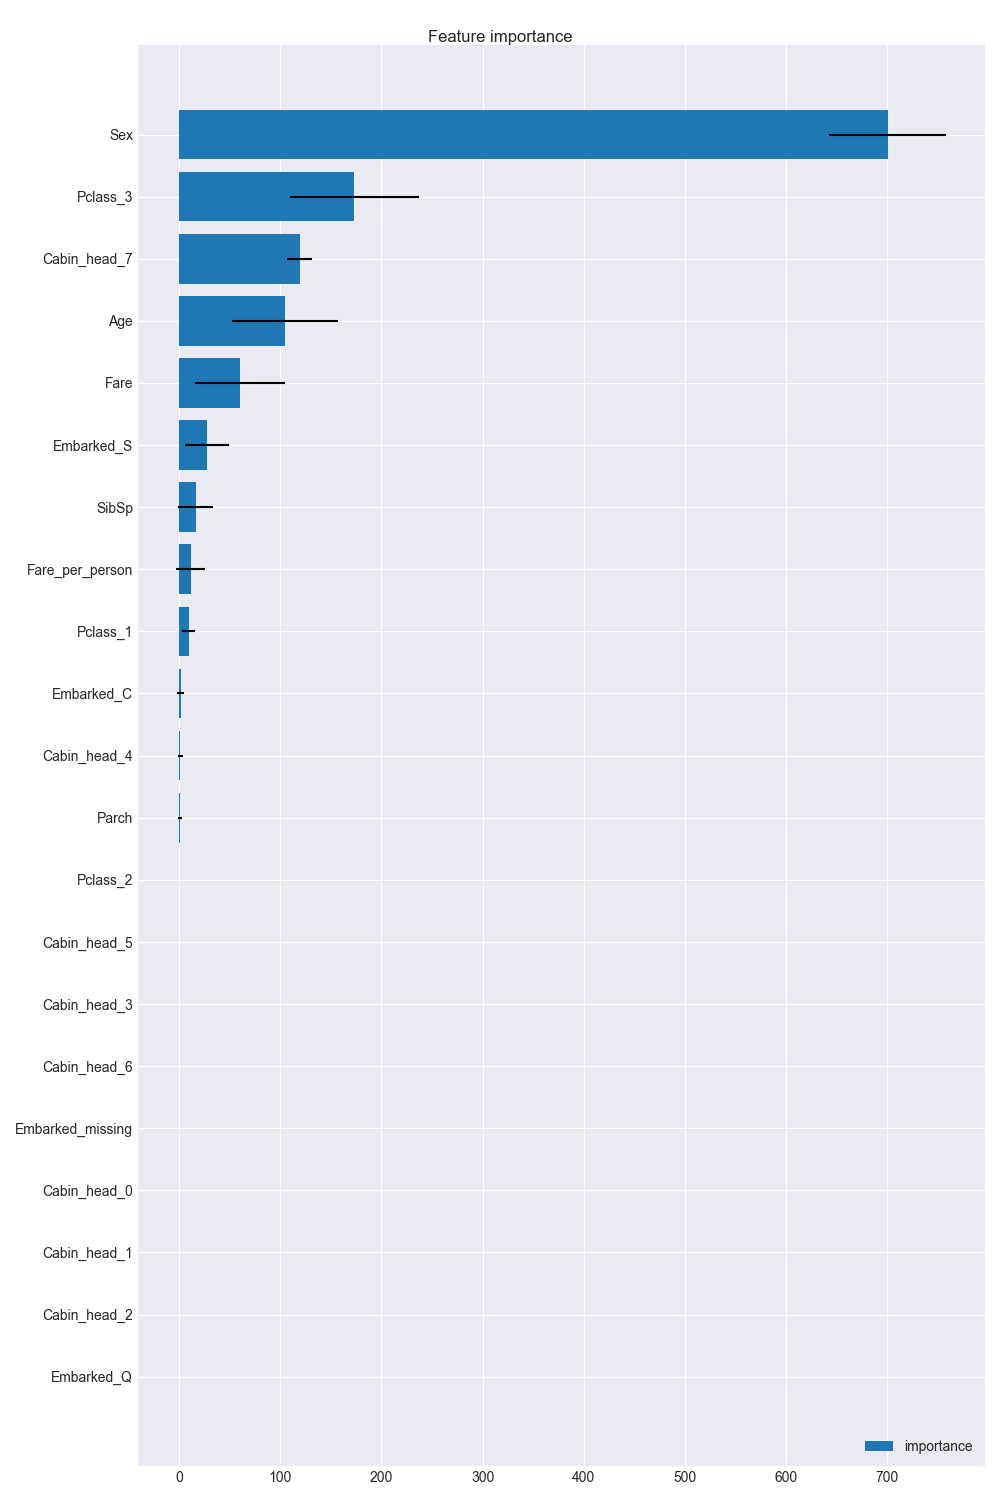
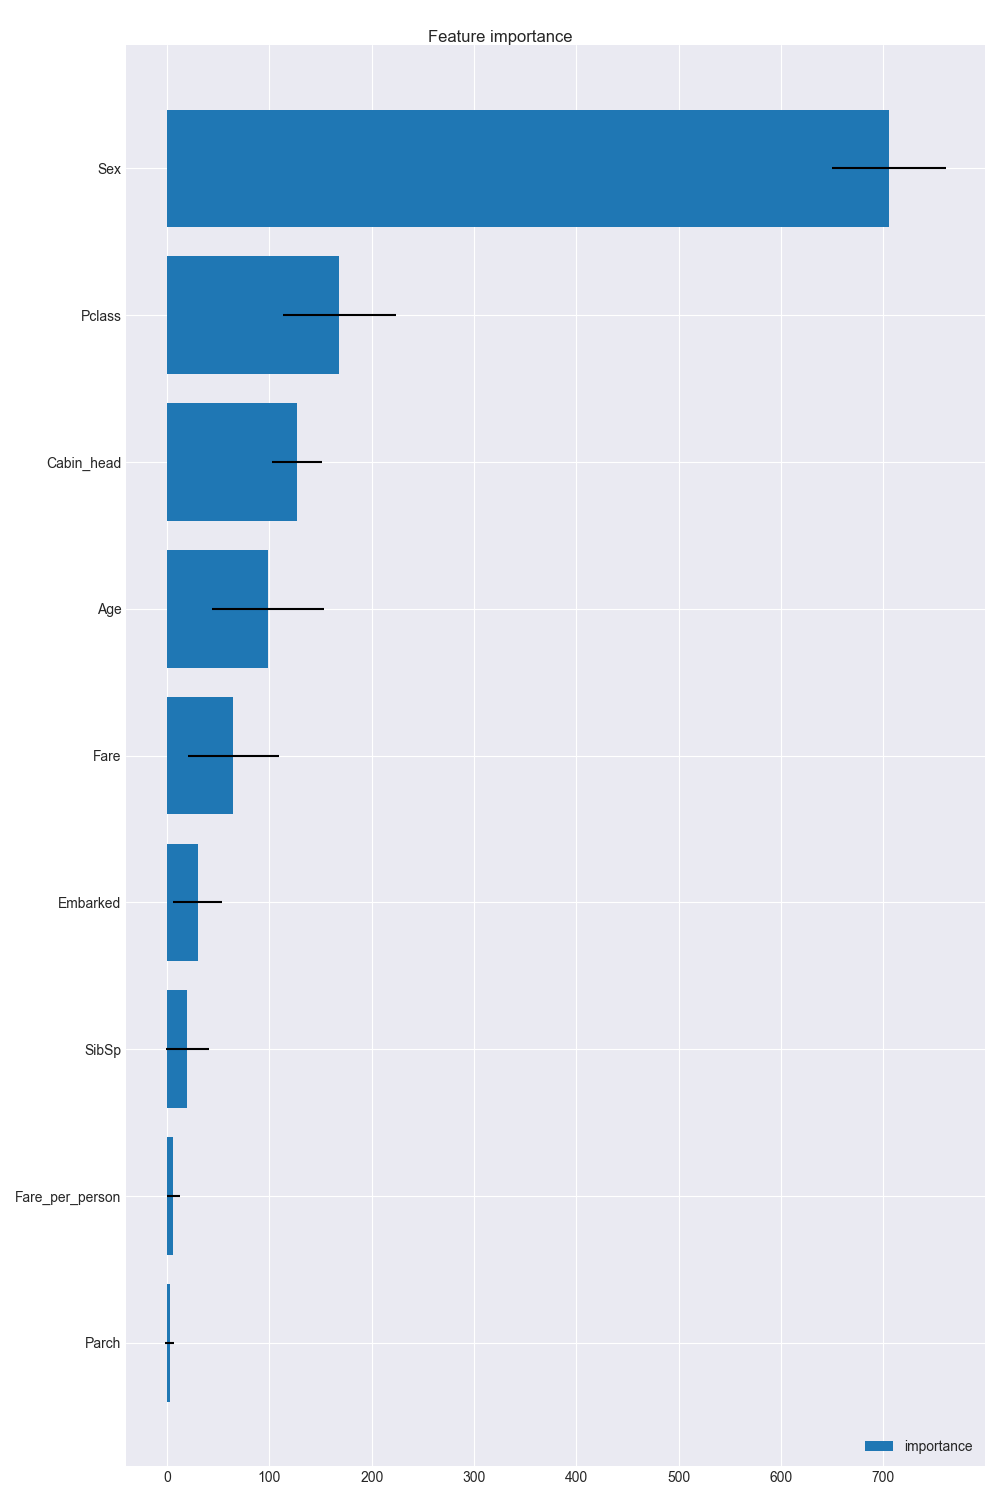
[update] convert one-hot to ordinal encode

diff --git a/titanic/submission.py b/titanic/submission.py
@@ -19,10 +19,8 @@ dump_dir = "../data/titanic/test_feature/"
 def raw_feature(data: pd.DataFrame):
     # Label encoding.
     data["Sex"] = data["Sex"].map({"female": 0, "male": 1})
-    # One-hot encoding
-    data = add_dummies(data, "Pclass")
     data["Embarked"].fillna("missing", inplace=True)
-    data = add_dummies(data, "Embarked")
+    data["Embarked"] = data["Embarked"].map({"C": 0, "Q": 1, "S": 2, "missing": 3})
     # Fill null with average.
     data["Age"].fillna(30, inplace=True)
     data["Fare"].fillna(33, inplace=True)
@@ -32,9 +30,16 @@ def raw_feature(data: pd.DataFrame):
 
     data["Fare_per_person"] = data.Fare / np.mean(data.SibSp + data.Parch + 1)
 
-    use_cols = ["Sex", "SibSp", "Parch", "Age", "Fare", "Fare_per_person"]
-    use_cols += list(data.columns[data.columns.str.contains("Pclass")])
-    use_cols += list(data.columns[data.columns.str.contains("Embarked")])
+    use_cols = [
+        "Sex",
+        "SibSp",
+        "Parch",
+        "Age",
+        "Fare",
+        "Fare_per_person",
+        "Pclass",
+        "Embarked",
+    ]
     return data[use_cols]
 
 
@@ -45,8 +50,7 @@ def cabin_feature(data: pd.DataFrame):
 
     cabin_head_map = {s: i for i, s in enumerate("ABCDEFGH")}
     data["Cabin_head"] = data["Cabin_head"].map(cabin_head_map)
-    data = add_dummies(data, "Cabin_head")
-    return data[list(data.columns[data.columns.str.contains("Cabin_head")])]
+    return data[["Cabin_head"]]
 
 
 def create_features(data: pd.DataFrame):
@@ -55,12 +59,7 @@ def create_features(data: pd.DataFrame):
 
 
 def lgbm_predict(models, data):
-    preds = [
-        m.predict(
-            data, num_iteration=m.best_iteration, predict_disable_shape_check=True
-        )
-        for m in models
-    ]
+    preds = [m.predict(data, num_iteration=m.best_iteration) for m in models]
     return np.array(preds)
 
 

diff --git a/titanic/create_feature.py b/titanic/create_feature.py
@@ -22,10 +22,8 @@ def target(data: pd.DataFrame):
 def raw_feature(data: pd.DataFrame):
     # Label encoding.
     data["Sex"] = data["Sex"].map({"female": 0, "male": 1})
-    # One-hot encoding
-    data = add_dummies(data, "Pclass")
     data["Embarked"].fillna("missing", inplace=True)
-    data = add_dummies(data, "Embarked")
+    data["Embarked"] = data["Embarked"].map({"C": 0, "Q": 1, "S": 2, "missing": 3})
     # Fill null with average.
     data["Age"].fillna(30, inplace=True)
     data["Fare"].fillna(33, inplace=True)
@@ -35,9 +33,16 @@ def raw_feature(data: pd.DataFrame):
 
     data["Fare_per_person"] = data.Fare / np.mean(data.SibSp + data.Parch + 1)
 
-    use_cols = ["Sex", "SibSp", "Parch", "Age", "Fare", "Fare_per_person"]
-    use_cols += list(data.columns[data.columns.str.contains("Pclass")])
-    use_cols += list(data.columns[data.columns.str.contains("Embarked")])
+    use_cols = [
+        "Sex",
+        "SibSp",
+        "Parch",
+        "Age",
+        "Fare",
+        "Fare_per_person",
+        "Pclass",
+        "Embarked",
+    ]
     return data[use_cols]
 
 
@@ -57,8 +62,7 @@ def cabin_feature(data: pd.DataFrame):
 
     cabin_head_map = {s: i for i, s in enumerate("ABCDEFGH")}
     data["Cabin_head"] = data["Cabin_head"].map(cabin_head_map)
-    data = add_dummies(data, "Cabin_head")
-    return data[list(data.columns[data.columns.str.contains("Cabin_head")])]
+    return data[["Cabin_head"]]
 
 
 @save_cache(os.path.join(dump_dir, "fare_rank.pkl"), use_cache=False)
